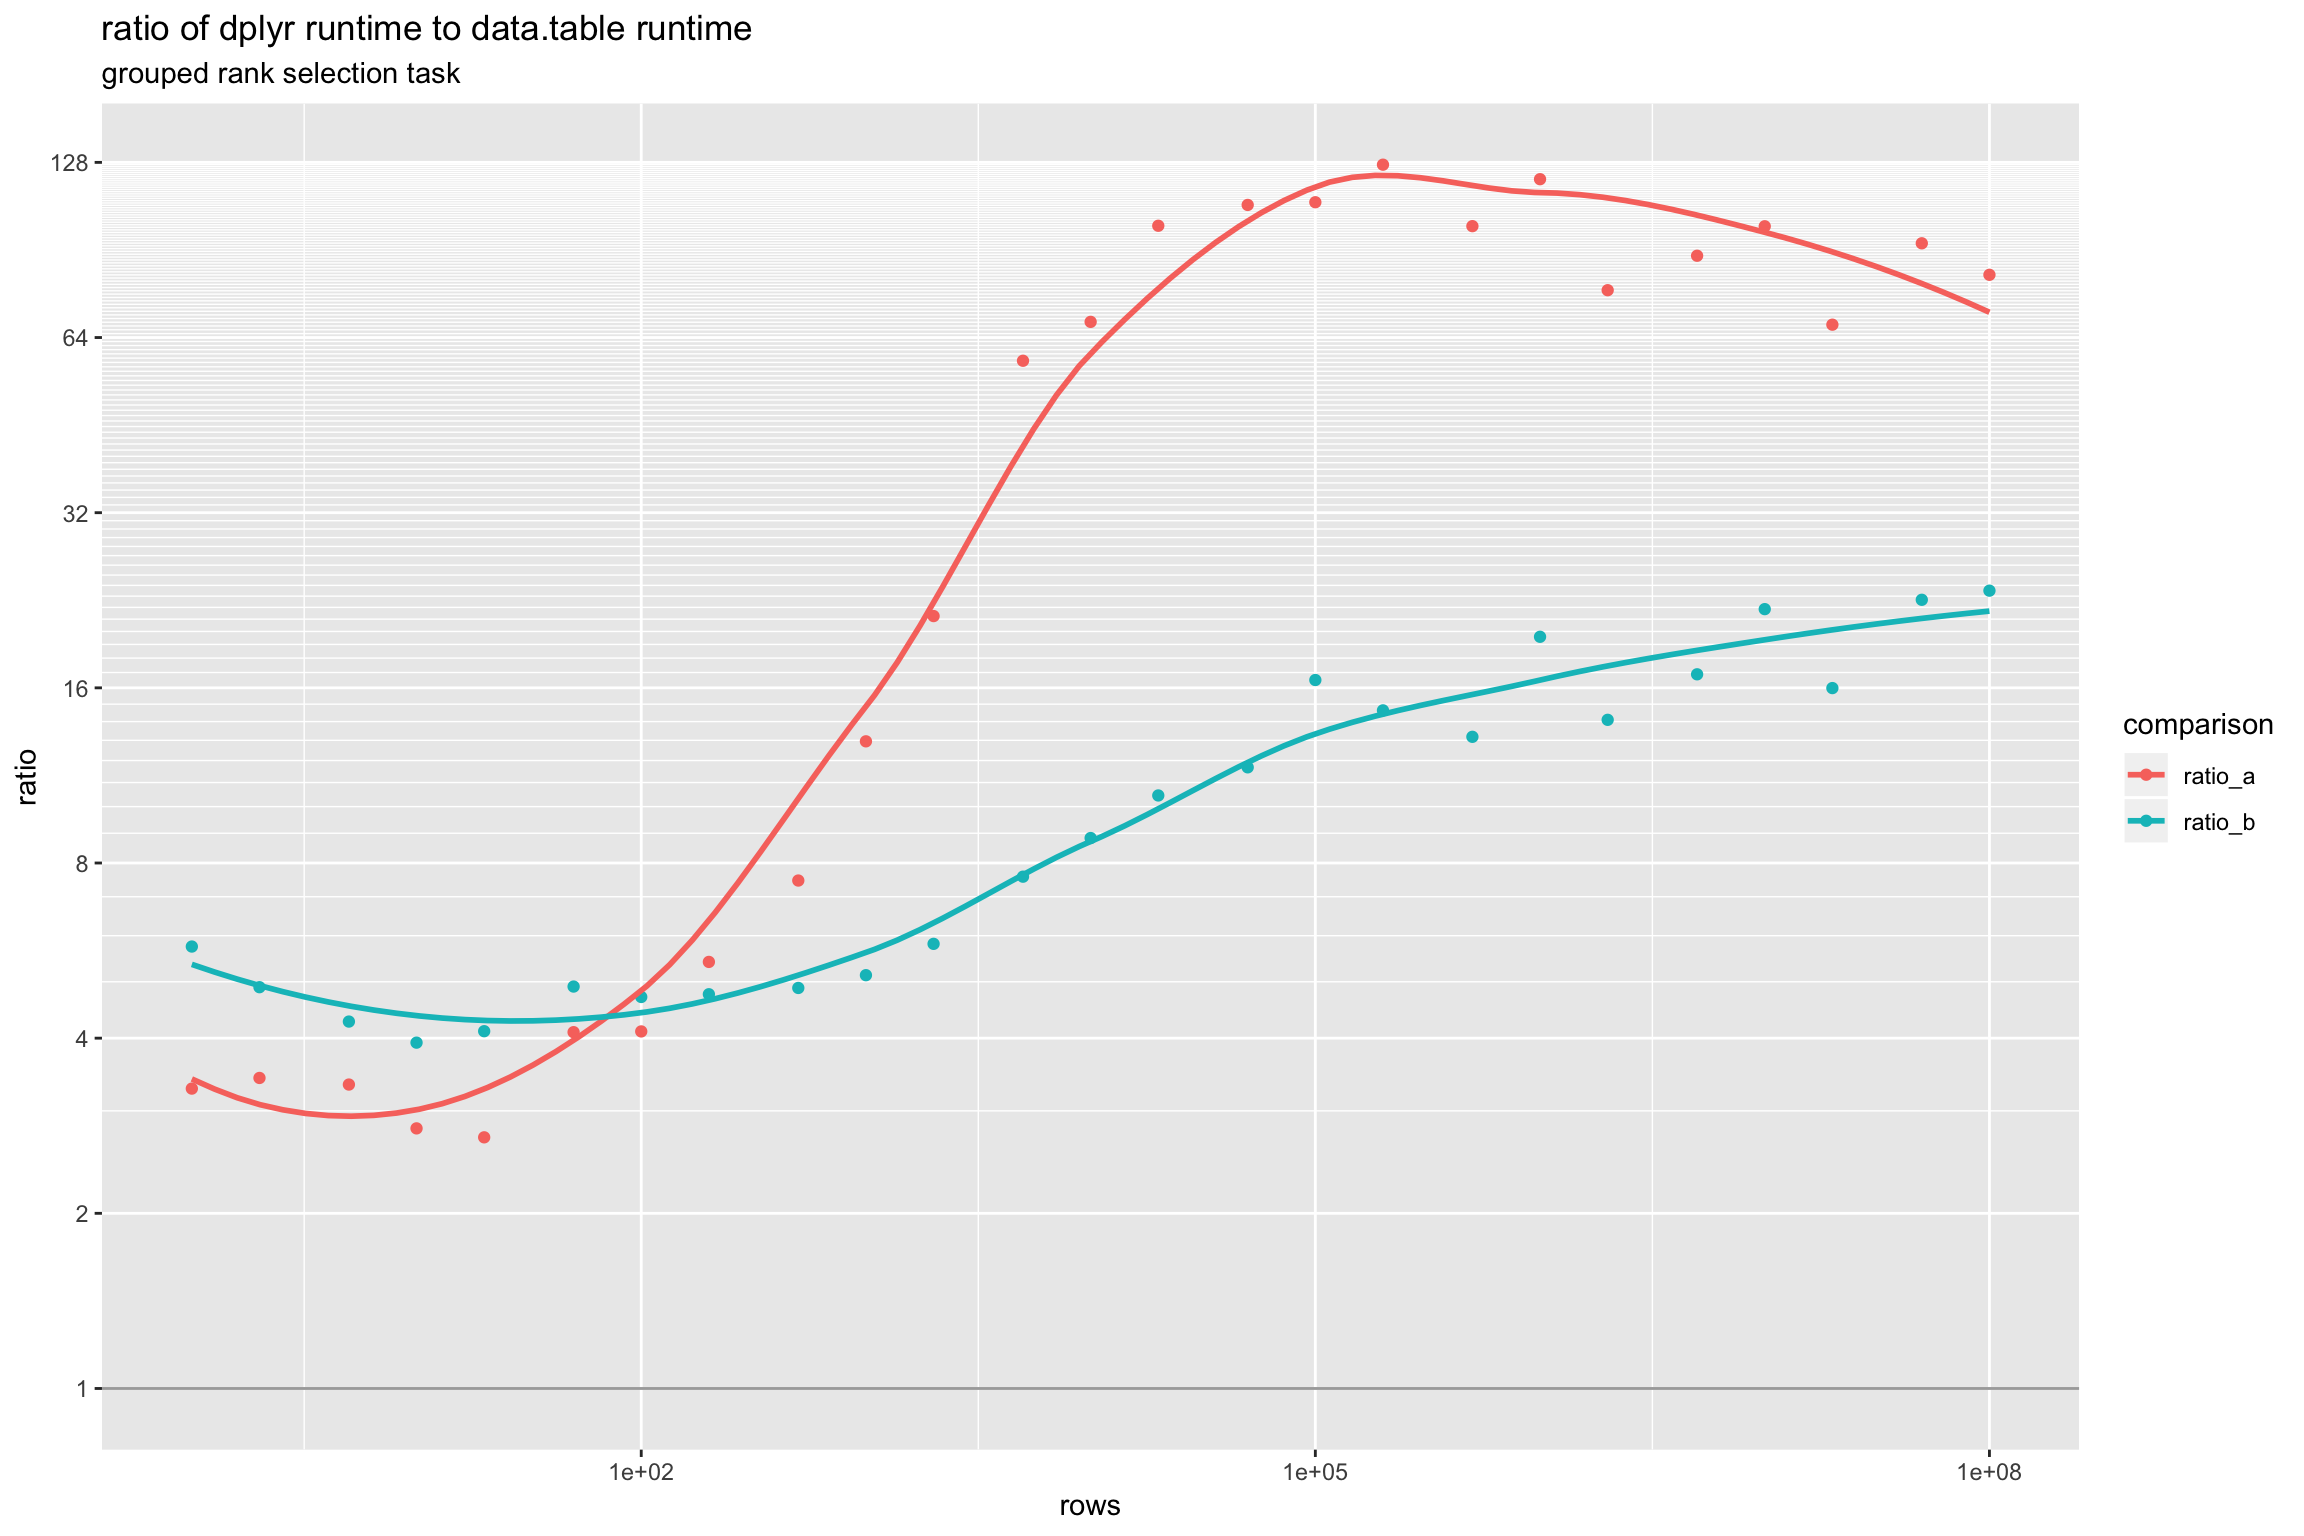
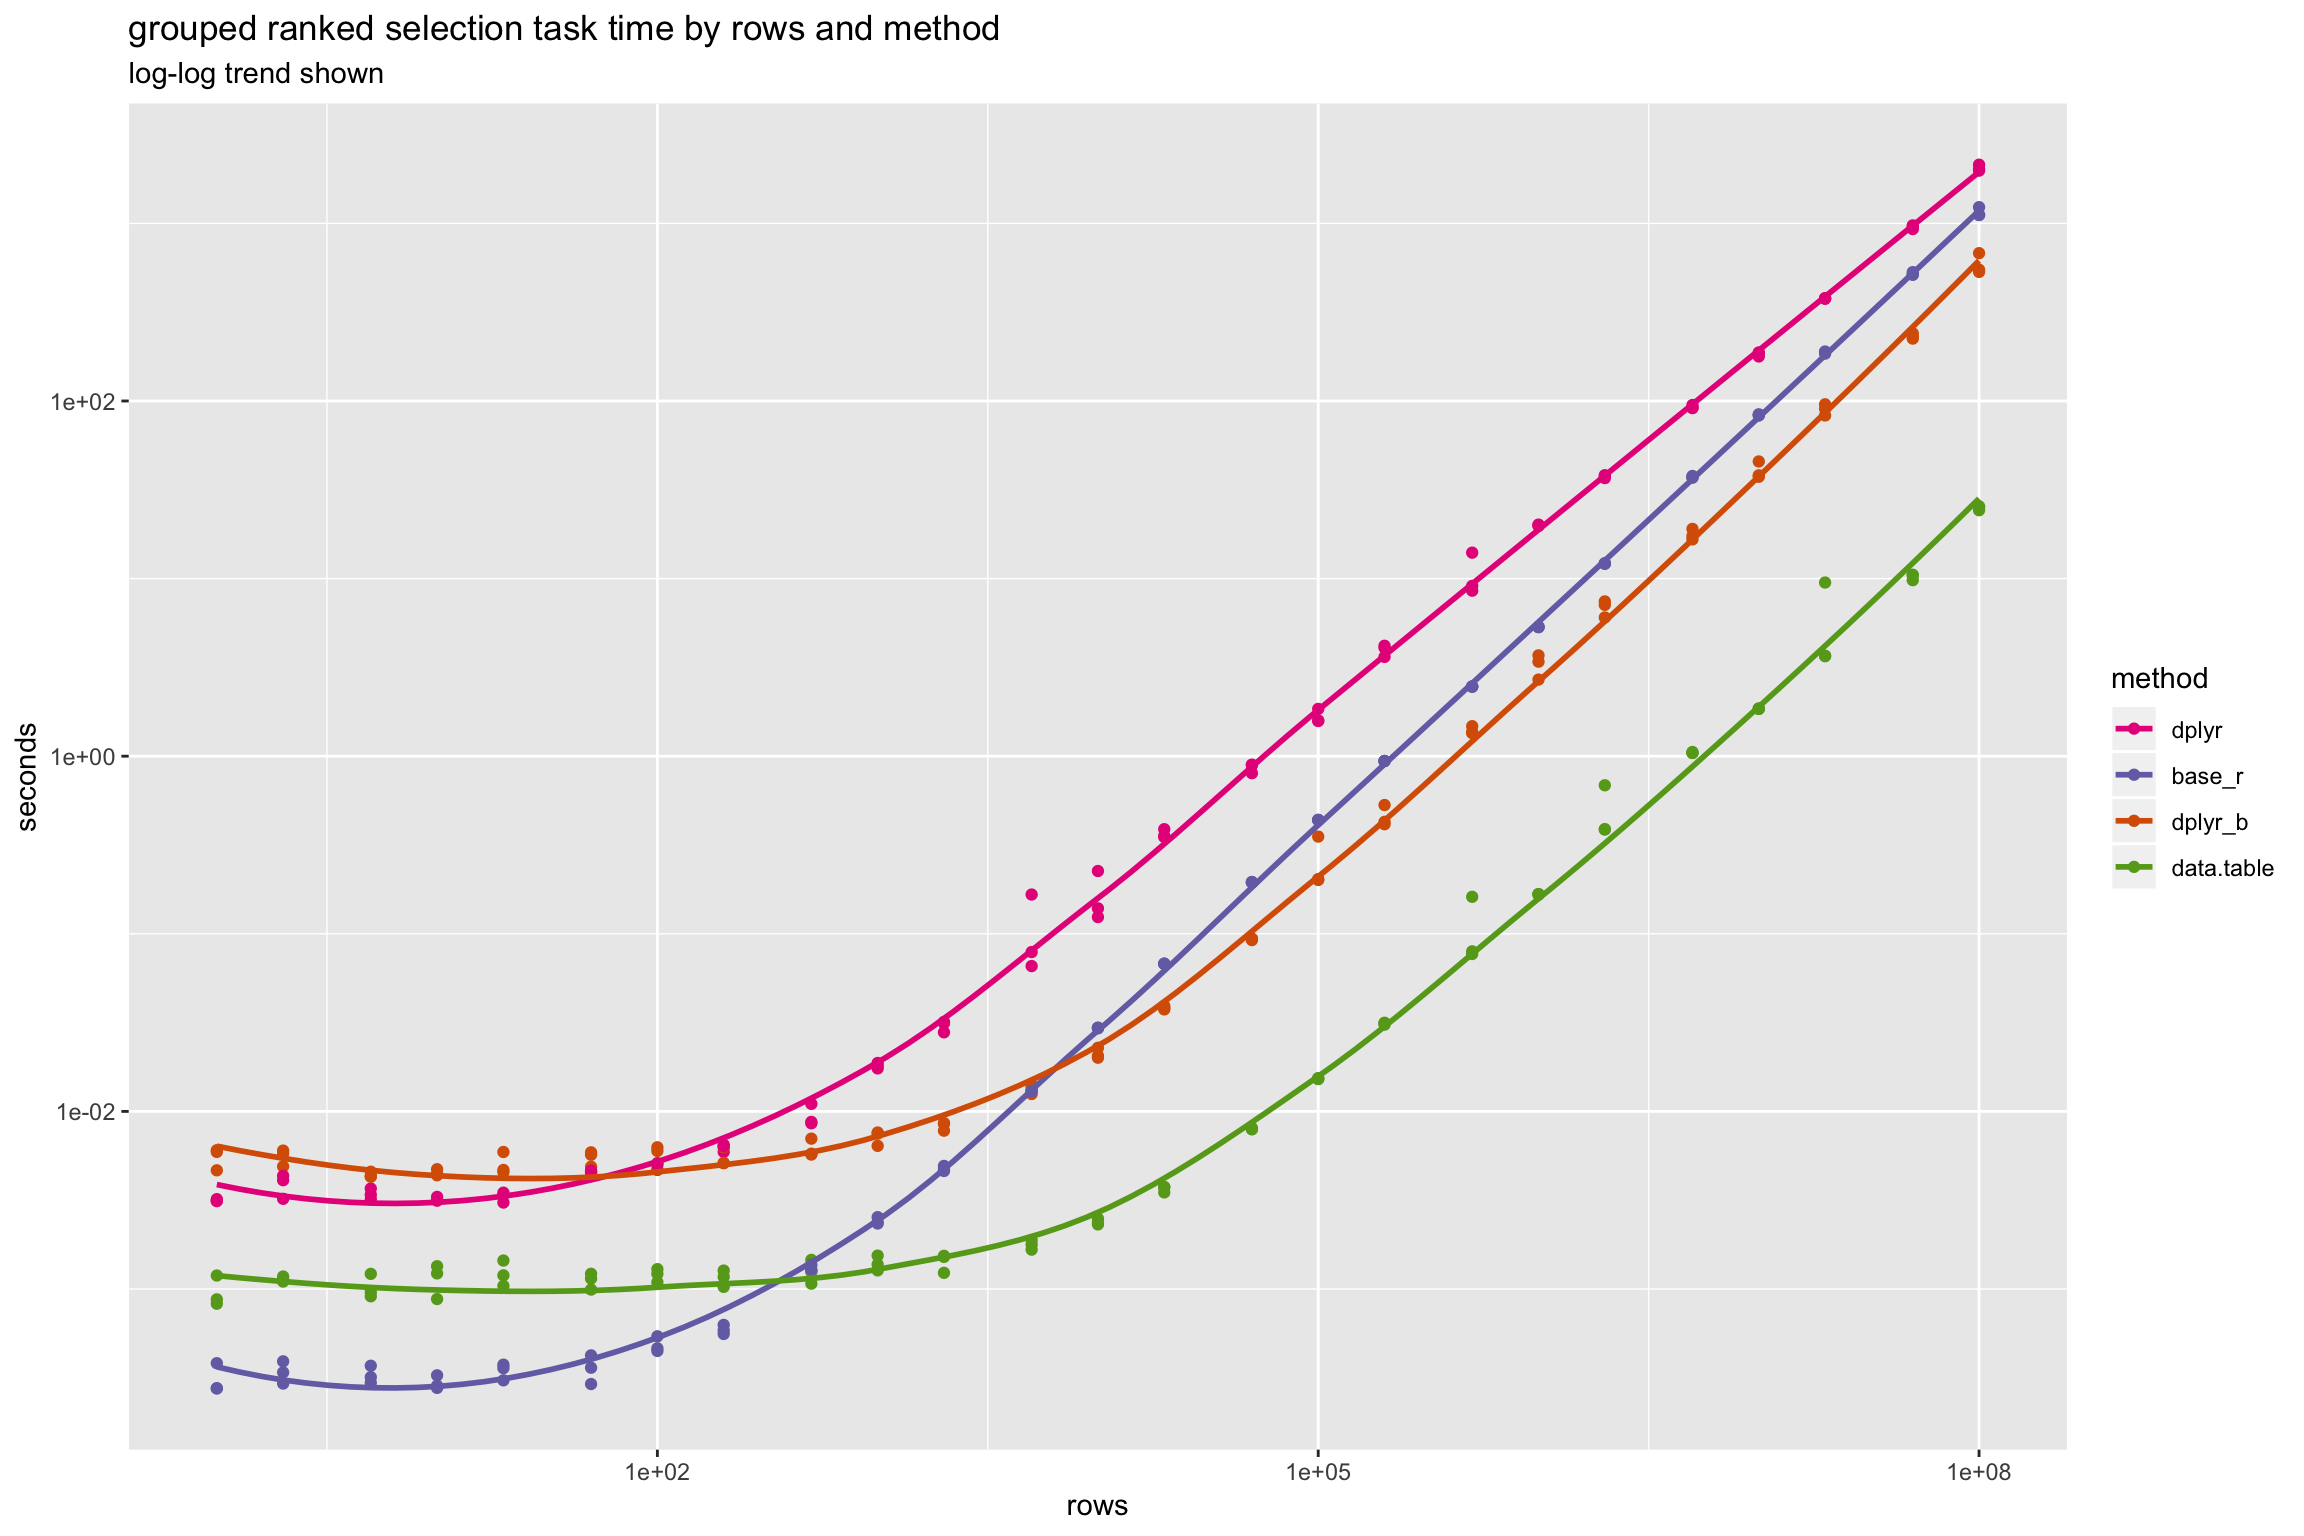
re-render

diff --git a/extras/GroupedRankFilter2.md b/extras/GroupedRankFilter2.md
@@ -204,16 +204,21 @@ if(!file.exists(rds_name)) {
 ``` r
 timings <- do.call(rbind, runs)
 timings$seconds <- timings$time/1e+9
-timings$method <- factor(timings$expr,
-                         levels = c("dplyr", "dplyr_b",
-                                    "base_r", "pandas_reticulate",
-                                    "rqdatatable", "data.table"))
+timings$method <- factor(timings$expr)
+timings$method <- reorder(timings$method, -timings$seconds)
 method_map <- c(dplyr = "dplyr", 
                 dplyr_b = "dplyr",
                 pandas_reticulate = "base-R or R/python roundtrip",
-                data.table =   "data.table",
+                data.table = "data.table",
                 rqdatatable = "data.table",   
                 base_r  = "base-R or R/python roundtrip")
+color_map <- c(
+   dplyr = "#e7298a",
+   dplyr_b = "#d95f02",
+   pandas_reticulate = "#e6ab02",
+   data.table = "#66a61e",
+   rqdatatable = "#1b9e77",
+   base_r = "#7570b3")
 timings$method_family <- method_map[as.character(timings$method)]
 timings$method_family <- reorder(timings$method_family, -timings$seconds)
 rowset <- sort(unique(timings$rows))
@@ -234,6 +239,43 @@ smooths <- lapply(
 smooths <- do.call(rbind, smooths)
 smooths$method <- factor(smooths$method, levels = levels(timings$method))
 
+
+ggplot(data = timings[timings$method %in% qc(dplyr, base_r, pandas_reticulate),], 
+       aes(x = rows, y = seconds)) +
+  geom_point(aes(color = method)) + 
+  geom_smooth(aes(color = method),
+              se = FALSE) +
+  scale_x_log10() +
+  scale_y_log10() +
+  scale_color_manual(values = color_map[qc(dplyr, base_r, "pandas_reticulate")]) +
+  ggtitle("grouped ranked selection task time by rows and method",
+          subtitle = "log-log trend shown") 
+```
+
+    ## `geom_smooth()` using method = 'loess' and formula 'y ~ x'
+
+<img src="GroupedRankFilter2_files/figure-markdown_github/present-1.png" width="1152" />
+
+``` r
+ggplot(data = timings[timings$method %in% qc(dplyr, base_r, dplyr_b,
+                                             data.table),], 
+       aes(x = rows, y = seconds)) +
+  geom_point(aes(color = method)) + 
+  geom_smooth(aes(color = method),
+              se = FALSE) +
+  scale_x_log10() +
+  scale_y_log10() +
+  scale_color_manual(values = color_map[qc(dplyr, base_r, dplyr_b,
+                                             data.table)]) +
+  ggtitle("grouped ranked selection task time by rows and method",
+          subtitle = "log-log trend shown") 
+```
+
+    ## `geom_smooth()` using method = 'loess' and formula 'y ~ x'
+
+<img src="GroupedRankFilter2_files/figure-markdown_github/present-2.png" width="1152" />
+
+``` r
 ggplot(data = timings, aes(x = rows, y = seconds)) +
   geom_line(data = smooths,
             alpha = 0.7,
@@ -241,13 +283,10 @@ ggplot(data = timings, aes(x = rows, y = seconds)) +
             aes(group = method, color = method)) +
   geom_point(data = timings, aes(color = method)) + 
   geom_smooth(data = timings, aes(color = method),
-              se = FALSE, size = 2) +
+              se = FALSE) +
   scale_x_log10() +
   scale_y_log10() +
-  scale_color_manual(values = 
-                       c("#1b9e77", "#d95f02",
-                         "#7570b3", "#e7298a",
-                         "#66a61e", "#e6ab02")) +
+  scale_color_manual(values = color_map) +
   ggtitle("grouped ranked selection task time by rows and method",
           subtitle = "log-log trend shown") +
   facet_wrap(~method_family, ncol=1, labeller = "label_both")
@@ -255,7 +294,7 @@ ggplot(data = timings, aes(x = rows, y = seconds)) +
 
     ## `geom_smooth()` using method = 'loess' and formula 'y ~ x'
 
-<img src="GroupedRankFilter2_files/figure-markdown_github/present-1.png" width="1152" />
+<img src="GroupedRankFilter2_files/figure-markdown_github/present-3.png" width="1152" />
 
 ``` r
 means <- timings %.>%
@@ -357,6 +396,7 @@ ggplot(data = m2, aes(x = rows, y = ratio, color = comparison)) +
   scale_y_log10(
     breaks = 2^{0:8},
     minor_breaks = 1:128) + 
+  scale_color_manual(values = as.character(color_map[qc(dplyr, dplyr_b)])) +
   geom_hline(yintercept = 1, color = "darkgray") + 
   ggtitle("ratio of dplyr runtime to data.table runtime",
           subtitle = "grouped rank selection task")
@@ -364,4 +404,4 @@ ggplot(data = m2, aes(x = rows, y = ratio, color = comparison)) +
 
     ## `geom_smooth()` using method = 'loess' and formula 'y ~ x'
 
-<img src="GroupedRankFilter2_files/figure-markdown_github/present-2.png" width="1152" />
+<img src="GroupedRankFilter2_files/figure-markdown_github/present-4.png" width="1152" />
